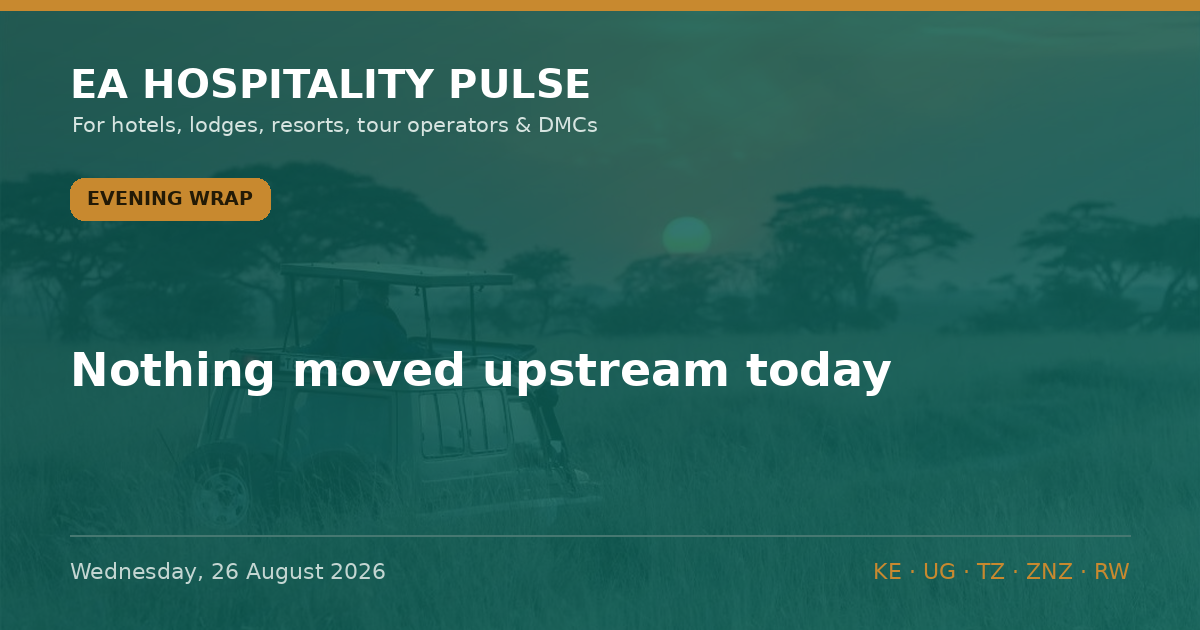
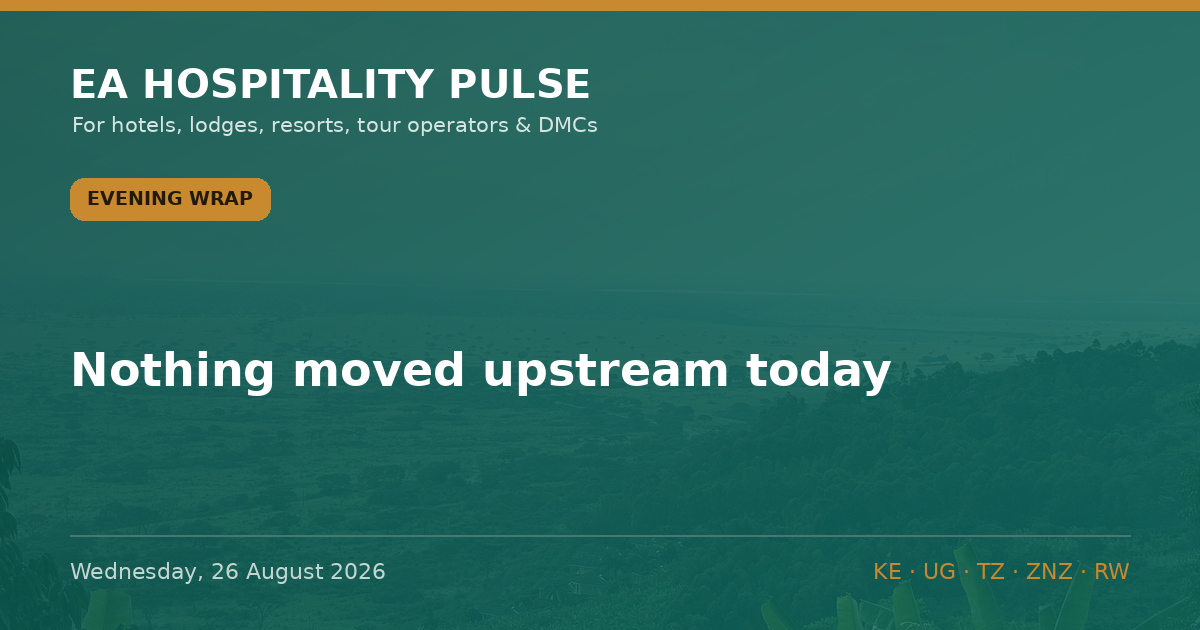
Auto-build: 2026-08-26 14:09 UTC

diff --git a/data.js b/data.js
@@ -126,15 +126,6 @@ window.EDITIONS = [
   "bodyHtml": "<p>☀ <strong>MORNING BRIEF — Tue 19 Aug 2026</strong><br><em>Quiet news slot — one expert read that matters more than any headline.</em></p>\n<p><strong>YOUR FASTEST-GROWING GUEST IS YOUR NEIGHBOUR — AND YOUR GOVERNMENT IS TAXING THEM AT THE BASE</strong></p>\n<p>Read the 2025 source-market tables and the story stops being about Europe. Uganda sent Kenya <strong>234,556 visitors in 2025 — 31% of all African arrivals, up 8.7%</strong>; Tanzania <strong>209,536, up 7.7%</strong> (KTB/TRI data via POATE 2026, reported by Citizen Digital &amp; New Vision). Kenya now targets <strong>300,000 Ugandan arrivals</strong>. In Rwanda it&#x27;s starker: the <strong>DRC is now the single largest source market — 185,420 visitors in H1 2026, 12.5% of all international arrivals</strong> (RDB). The regional guest is the base load now, not the overflow.</p>\n<p><strong>What most operators miss:</strong> the guest base changed but the playbook didn&#x27;t. The marginal booking now comes from a traveller who ignores Western Level-3 advisories, books short, drives or short-hauls in, and pays in a regional currency — yet we still run a long-haul-dollar operation: USD rack rates, GDS/OTA distribution, risk comms aimed at Europe. Worse, the same treasuries celebrating this demand are taxing its most price-sensitive flyer. Kenya&#x27;s JKIA passenger levy is now <strong>pledged to bondholders</strong> (Business Daily, 24 Jul) — hard to cut — with a 2% short-term-rental levy and a proposed travel-health-insurance charge stacking on top. Regional demand shrugs off advisories but is exquisitely sensitive to a $20 levy.</p>\n<p><span class=\"sowhat\">🎯 <strong>So what — by segment:</strong></span><br>🏙 <strong>City:</strong> regional corporate, VFR and events traffic is your steadiest base — build regional-agent and WhatsApp distribution, quote in regional terms, not just a USD rack. 🌿 <strong>Bush:</strong> regional guests are lower-ADR but fill shoulder/low season and hedge advisory-driven long-haul softness — watch the total trip cost, because a park-fee-plus-air-levy stack is what loses them. 🏖 <strong>Beach:</strong> the drive-and-short-haul market (Ugandans/Tanzanians to Diani &amp; Mombasa, regional flyers to Zanzibar) is now year-round base load — protect it from feeder-route fragility and levy creep.<br><span class=\"tagline\">🏷 Regional · Confirmed (KTB/TRI 2025, RDB H1 2026) / Inference on operator response.</span></p>\n<hr class=\"divider\">\n<p>✅ <strong>STILL TRUE</strong> — No EA advisory moved. Kenya <strong>US Level 2</strong> (core corridors, Diani, Watamu clear); Tanzania &amp; Zanzibar <strong>Level 3</strong> (since 31 Oct 2025); Uganda <strong>US Level 4</strong> on residual Ebola grounds despite its 28 Jul outbreak-over call (travel.state.gov, verified 12 Aug). The regional guest travels through all of it — don&#x27;t discount as though it had lifted.<br>💷 <strong>COST PULSE</strong> — Price regional in regional money: KES→UGX <strong>28.36</strong> · KES→TZS <strong>20.30</strong> · KES→RWF <strong>11.31</strong> (CBK weekly). Kenya diesel <strong>KSh 217.86/L</strong> (EPRA, 14 Aug) — refuse any supplier fuel surcharge this cycle.<br><span class=\"meta-line\">📅 <strong>WEEK AHEAD</strong> — <strong>19–21 Aug</strong> Hotel Expo Kenya, KICC · <strong>18–20 Aug</strong> AfPIF, Kigali Marriott · late Aug KNBS/UBOS/NISR CPI · <strong>26–28 Aug</strong> Africa Global PR Week, Nairobi · <strong>4 Sep</strong> Kwita Izina, Musanze.</span><br><span class=\"meta-line\">📡 <strong>RADAR</strong> — 470 in-window observations to 08:38 EAT; feed live. No EA advisory moved (only Mauritania/Netherlands/Ecuador flagged). Jambojet &amp; Airlink press pages moved behind Incapsula — a persistent blind spot, not news. Kenya Law feed heavy with court judgments, none hospitality.</span></p>\n<p>🔗 This edition on the web: <a href=\"https://eahospitalitypulse.com/editions/pulse-2026-08-19-morning.html\" rel=\"noopener\">eahospitalitypulse.com/editions/pulse-2026-08-19-mornin…</a></p>"
  },
  {
-  "id": "pulse-2026-08-18-special",
-  "date": "2026-08-18",
-  "dateDisplay": "Tuesday, 18 August 2026",
-  "edition": "Morning Brief",
-  "editionKey": "morning",
-  "summary": "1⃣ 🇰🇪 THE COAST IS OUTGROWING THE GATEWAY — AND THE NATIONAL NUMBER HIDES IT",
-  "bodyHtml": "<p>📊 <strong>EA HOSPITALITY PULSE — Special Edition</strong><br>🗓 Tuesday 18 August 2026 | 🇰🇪 KNBS data drop</p>\n<p><em>Kenya&#x27;s arrivals are up — but not where the headline says. Read the map before the margin.</em><br>━━━━━━━━━<br><strong>1⃣ 🇰🇪 THE COAST IS OUTGROWING THE GATEWAY — AND THE NATIONAL NUMBER HIDES IT</strong></p>\n<p>Official visitor arrivals now run through April. Jan–Apr 2026: <strong>828,830, up 9.5%</strong> on the same months of 2025 (757,245) — Kenya Leading Economic Indicators, June 2026, KNBS, released 14 Aug.</p>\n<p>The headline is real. The distribution is the story. Mombasa&#x27;s Moi International (MIA) took <strong>96,701 arrivals, up 19.7%</strong> year-on-year, while JKIA grew <strong>8.5%</strong> and land borders <strong>7.5%</strong>. The coast is recovering over twice as fast as the Nairobi gateway.</p>\n<p><strong>What everyone is missing:</strong> the +9.5% is not evenly yours. In April — the long-rains trough — national arrivals rose just 2.9% and <strong>JKIA fell 1.0%</strong> YoY. Strip the coast out and the city-gateway recovery is modest and seasonal. A Nairobi GM reading &quot;+9.5%&quot; as their own demand is reading the wrong line. Backing it: SGR passengers ran <strong>~12% ahead</strong> in Q1 — the Nairobi–Mombasa corridor is carrying this (KNBS).</p>\n<p><span class=\"tagline\">🏷 City/Beach · Kenya · Confirmed (KNBS arrivals &amp; SGR) / Inference (regional read)</span><br><span class=\"sowhat\">🎯 <strong>So what:</strong> <strong>Coast</strong> — demand is arriving; hold rate through the Sep–Oct build and stop discounting. <strong>Nairobi</strong> — treat H1 as flat-to-soft on your own gateway; win share through corporate, MICE and regional traffic, not a rising tide.</span></p>\n<p><strong>2⃣ 🇰🇪 THE CURRENCY IS QUIETLY REPRICING YOUR EUROPEAN GUEST</strong></p>\n<p>Over H1 2026 the shilling <strong>firmed</strong> against sterling (174.32→<strong>172.72</strong>) and the euro (151.37→<strong>149.22</strong>), flat against the dollar at <strong>~129.5</strong> (KNBS, June). Inflation sat at <strong>6.4%</strong>, the CBR held at <strong>8.75%</strong>.</p>\n<p>Read together: a European operator&#x27;s fixed FX budget now buys <strong>fewer shillings</strong> than in January — mild pressure on any KES-cost property selling into Europe, while dollar-priced lodges keep their spread intact.</p>\n<p><span class=\"tagline\">🏷 City/Bush/Beach · Kenya · Confirmed (KNBS forex/CPI) / Inference (pricing read)</span><br><span class=\"sowhat\">🎯 <strong>So what:</strong> If you cost in shillings and sell in euros or pounds, revisit 2027 contract rates now — the FX drift is against you. Price in USD and you&#x27;re insulated.</span></p>\n<p>━━━━━━━━━<br>🍲 <strong>SUPPLY-CHAIN SIDEBAR — where your southern-circuit kitchen shops</strong></p>\n<p>Informal cross-border trade <strong>fell 16.7%</strong> in 2025 (KSh 299.0m→249.1m), and <strong>Tanzania became the top source of informal imports at 47.2%</strong>, overwhelmingly <strong>food and live animals (78.5%)</strong> — KNBS Informal Cross-Border Trade Survey 2025, released 17 Aug. Main entry points: <strong>Namanga, Isebania, Malaba</strong> — the Amboseli, Mara and Uganda corridors.</p>\n<p><span class=\"sowhat\">🎯 <strong>So what:</strong> Southern-circuit lodges run partly on this informal Tanzanian fresh-food flow. A contracting, Tanzania-concentrated supply line is a produce-cost and continuity risk — worth a word with your F&amp;B suppliers before high season. 🏷 Bush · Confirmed (KNBS ICBT) / Inference.</span></p>\n<p>━━━━━━━━━<br>✅ <strong>STILL TRUE</strong> — Kenya remains US <strong>Level 2</strong>; core corridors (Nairobi, Diani, Watamu) sit in no Level 4 area (travel.state.gov, verified 12 Aug). Don&#x27;t discount on a story that hasn&#x27;t moved.</p>\n<p>⚡ <strong>COST PULSE</strong> — Nairobi diesel holds <strong>KSh 217.86/L</strong> to 14 Sep, ~KSh 14.28/L above landed-cost parity (EPRA / Business Daily, 14 Aug).</p>\n<p><span class=\"meta-line\">📅 <strong>WEEK AHEAD</strong> — <strong>19–21 Aug</strong> Hotel Expo Kenya, KICC · <strong>26–28 Aug</strong> Africa Global PR Week, Nairobi. Watch the <strong>May–June arrivals</strong> print to confirm the coast trend.</span></p>\n<p>🔗 This edition on the web: <a href=\"https://eahospitalitypulse.com/editions/pulse-2026-08-18-special.html\" rel=\"noopener\">eahospitalitypulse.com/editions/pulse-2026-08-18-specia…</a><br>— EA Hospitality Pulse | Daily intelligence for city, bush &amp; beach properties</p>"
- },
- {
   "id": "pulse-2026-08-18-morning",
   "date": "2026-08-18",
   "dateDisplay": "Tuesday, 18 August 2026",
@@ -142,6 +133,15 @@ window.EDITIONS = [
   "editionKey": "morning",
   "summary": "1⃣ 🌍 THE AIRLIFT YOU'RE CELEBRATING IS THE LEAST PROFITABLE IN THE WORLD",
   "bodyHtml": "<p>🌅 <strong>EA HOSPITALITY PULSE — Morning Brief</strong><br>🗓 Tuesday 18 August 2026 | 🌍 🇰🇪 🇺🇬 🇷🇼 🇹🇿</p>\n<p><em>Expert Brief: East Africa is adding air routes faster than its airlines can afford to fly them.</em><br>━━━━━━━━━<br><strong>1⃣ 🌍 THE AIRLIFT YOU&#x27;RE CELEBRATING IS THE LEAST PROFITABLE IN THE WORLD</strong></p>\n<p>Every route launch lands as good news in this business. Uganda Airlines opens Entebbe–Accra on 27 Oct and daily Entebbe–Kigali on 18 Nov (announced 5 Aug, The EastAfrican); Airlink starts Cape Town–Zanzibar on 3 Oct. Read the balance sheet underneath and the mood changes.</p>\n<p>IATA&#x27;s December outlook put African carriers at <strong>US$1.30 of profit per passenger</strong> for 2026 against a <strong>US$7.90</strong> global average — a <strong>1.3% margin, the thinnest of any region</strong> (IATA, 9 Dec 2025). By its June AGM it had cut the 2026 line again: profit per passenger down to <strong>40 US cents</strong> from US$2.10 in 2025, and the continent&#x27;s total net profit halved to <strong>~US$100m</strong> (IATA &quot;Energy in Crisis&quot; outlook, 8 Jun 2026). East Africa&#x27;s recovery is riding on the most fragile airlift economics on the planet.</p>\n<p><strong>What everyone is missing:</strong> a new-route press release reads as demand arriving. It is actually thin-margin capacity being <strong>lent</strong> — and thin-margin capacity is the first thing cut when a season underperforms. Turkish suspended 18 routes for summer 2026, Istanbul–Dar es Salaam among them, final flights in May/June (reported 2026). The route you don&#x27;t help fill in its first two seasons is the route that isn&#x27;t there in year three. Airlift is not infrastructure you inherit; it&#x27;s a trade relationship you keep alive.</p>\n<p><span class=\"tagline\">🏷 City/Bush/Beach · Regional · Confirmed (IATA figures &amp; schedules) / Inference (fragility read)</span><br><span class=\"sowhat\">🎯 <strong>So what — by segment:</strong> <strong>City</strong> (Nairobi/Kigali/Kampala): put corporate blocks and MICE contracts onto the new regional frequencies so they survive to a third season. <strong>Bush:</strong> the luxury pivot means fewer, higher-value guests who still need a long-haul seat — cultivate the carriers that actually serve your source markets. <strong>Beach:</strong> feeder routes are the most fragile of all — a trial like Cape Town–Zanzibar lives or dies on load factor. Fill it or lose it.</span></p>\n<p>━━━━━━━━━<br>✅ <strong>STILL TRUE</strong> — Tanzania &amp; Zanzibar remain US <strong>Level 3</strong> (unchanged since 31 Oct 2025); Kenya <strong>Level 2</strong>, core tourist corridors clear (travel.state.gov, verified 12 Aug). Nothing moved overnight. Don&#x27;t discount as though it had.</p>\n<p>⚡ <strong>COST PULSE</strong> — Nairobi diesel holds at <strong>KSh 217.86/L</strong> to 14 Sep; operators are carrying roughly <strong>KSh 14.28/L above landed-cost parity</strong> — refuse any supplier fuel surcharge this cycle (EPRA / Business Daily, 14 Aug).</p>\n<p>🎤 <strong>MICE WATCH</strong> — <strong>AfPIF</strong> (300–500 delegates) fills the Kigali Marriott cluster <strong>18–20 Aug</strong>; <strong>Hotel Expo Kenya</strong> at KICC, <strong>19–21 Aug</strong>. Hold corporate rate, don&#x27;t discount into the shoulder.</p>\n<p><span class=\"meta-line\">📅 <strong>WEEK AHEAD</strong> — <strong>18 Aug</strong> WHO IHR Committee on the Bundibugyo PHEIC · <strong>22 Aug</strong> Julius Nyerere hydropower inauguration, TZ · <strong>26–28 Aug</strong> Africa Global PR Week, Mövenpick Nairobi · <strong>28 Aug</strong> WTA Africa Gala, Zanzibar · <strong>late Aug</strong> KNBS/UBOS/NISR CPI prints.</span></p>\n<p><span class=\"meta-line\">📡 <strong>RADAR</strong> — 593 in-window observations to 08:17 EAT; feed live. Jambojet and Airlink press pages moved again behind Incapsula — a persistent blind spot, not a quiet night. Kenya Law feed heavy with court judgments, none hospitality. No advisory level moved.</span></p>\n<p><span class=\"meta-line\">💬 Which inbound route would you actually miss — and are you filling it, or just watching it?</span></p>\n<p>🔗 This edition on the web: <a href=\"https://eahospitalitypulse.com/editions/pulse-2026-08-18-morning.html\" rel=\"noopener\">eahospitalitypulse.com/editions/pulse-2026-08-18-mornin…</a><br>— EA Hospitality Pulse | Daily intelligence for city, bush &amp; beach properties</p>"
+ },
+ {
+  "id": "pulse-2026-08-18-special",
+  "date": "2026-08-18",
+  "dateDisplay": "Tuesday, 18 August 2026",
+  "edition": "Morning Brief",
+  "editionKey": "morning",
+  "summary": "1⃣ 🇰🇪 THE COAST IS OUTGROWING THE GATEWAY — AND THE NATIONAL NUMBER HIDES IT",
+  "bodyHtml": "<p>📊 <strong>EA HOSPITALITY PULSE — Special Edition</strong><br>🗓 Tuesday 18 August 2026 | 🇰🇪 KNBS data drop</p>\n<p><em>Kenya&#x27;s arrivals are up — but not where the headline says. Read the map before the margin.</em><br>━━━━━━━━━<br><strong>1⃣ 🇰🇪 THE COAST IS OUTGROWING THE GATEWAY — AND THE NATIONAL NUMBER HIDES IT</strong></p>\n<p>Official visitor arrivals now run through April. Jan–Apr 2026: <strong>828,830, up 9.5%</strong> on the same months of 2025 (757,245) — Kenya Leading Economic Indicators, June 2026, KNBS, released 14 Aug.</p>\n<p>The headline is real. The distribution is the story. Mombasa&#x27;s Moi International (MIA) took <strong>96,701 arrivals, up 19.7%</strong> year-on-year, while JKIA grew <strong>8.5%</strong> and land borders <strong>7.5%</strong>. The coast is recovering over twice as fast as the Nairobi gateway.</p>\n<p><strong>What everyone is missing:</strong> the +9.5% is not evenly yours. In April — the long-rains trough — national arrivals rose just 2.9% and <strong>JKIA fell 1.0%</strong> YoY. Strip the coast out and the city-gateway recovery is modest and seasonal. A Nairobi GM reading &quot;+9.5%&quot; as their own demand is reading the wrong line. Backing it: SGR passengers ran <strong>~12% ahead</strong> in Q1 — the Nairobi–Mombasa corridor is carrying this (KNBS).</p>\n<p><span class=\"tagline\">🏷 City/Beach · Kenya · Confirmed (KNBS arrivals &amp; SGR) / Inference (regional read)</span><br><span class=\"sowhat\">🎯 <strong>So what:</strong> <strong>Coast</strong> — demand is arriving; hold rate through the Sep–Oct build and stop discounting. <strong>Nairobi</strong> — treat H1 as flat-to-soft on your own gateway; win share through corporate, MICE and regional traffic, not a rising tide.</span></p>\n<p><strong>2⃣ 🇰🇪 THE CURRENCY IS QUIETLY REPRICING YOUR EUROPEAN GUEST</strong></p>\n<p>Over H1 2026 the shilling <strong>firmed</strong> against sterling (174.32→<strong>172.72</strong>) and the euro (151.37→<strong>149.22</strong>), flat against the dollar at <strong>~129.5</strong> (KNBS, June). Inflation sat at <strong>6.4%</strong>, the CBR held at <strong>8.75%</strong>.</p>\n<p>Read together: a European operator&#x27;s fixed FX budget now buys <strong>fewer shillings</strong> than in January — mild pressure on any KES-cost property selling into Europe, while dollar-priced lodges keep their spread intact.</p>\n<p><span class=\"tagline\">🏷 City/Bush/Beach · Kenya · Confirmed (KNBS forex/CPI) / Inference (pricing read)</span><br><span class=\"sowhat\">🎯 <strong>So what:</strong> If you cost in shillings and sell in euros or pounds, revisit 2027 contract rates now — the FX drift is against you. Price in USD and you&#x27;re insulated.</span></p>\n<p>━━━━━━━━━<br>🍲 <strong>SUPPLY-CHAIN SIDEBAR — where your southern-circuit kitchen shops</strong></p>\n<p>Informal cross-border trade <strong>fell 16.7%</strong> in 2025 (KSh 299.0m→249.1m), and <strong>Tanzania became the top source of informal imports at 47.2%</strong>, overwhelmingly <strong>food and live animals (78.5%)</strong> — KNBS Informal Cross-Border Trade Survey 2025, released 17 Aug. Main entry points: <strong>Namanga, Isebania, Malaba</strong> — the Amboseli, Mara and Uganda corridors.</p>\n<p><span class=\"sowhat\">🎯 <strong>So what:</strong> Southern-circuit lodges run partly on this informal Tanzanian fresh-food flow. A contracting, Tanzania-concentrated supply line is a produce-cost and continuity risk — worth a word with your F&amp;B suppliers before high season. 🏷 Bush · Confirmed (KNBS ICBT) / Inference.</span></p>\n<p>━━━━━━━━━<br>✅ <strong>STILL TRUE</strong> — Kenya remains US <strong>Level 2</strong>; core corridors (Nairobi, Diani, Watamu) sit in no Level 4 area (travel.state.gov, verified 12 Aug). Don&#x27;t discount on a story that hasn&#x27;t moved.</p>\n<p>⚡ <strong>COST PULSE</strong> — Nairobi diesel holds <strong>KSh 217.86/L</strong> to 14 Sep, ~KSh 14.28/L above landed-cost parity (EPRA / Business Daily, 14 Aug).</p>\n<p><span class=\"meta-line\">📅 <strong>WEEK AHEAD</strong> — <strong>19–21 Aug</strong> Hotel Expo Kenya, KICC · <strong>26–28 Aug</strong> Africa Global PR Week, Nairobi. Watch the <strong>May–June arrivals</strong> print to confirm the coast trend.</span></p>\n<p>🔗 This edition on the web: <a href=\"https://eahospitalitypulse.com/editions/pulse-2026-08-18-special.html\" rel=\"noopener\">eahospitalitypulse.com/editions/pulse-2026-08-18-specia…</a><br>— EA Hospitality Pulse | Daily intelligence for city, bush &amp; beach properties</p>"
  },
  {
   "id": "pulse-2026-08-17-evening",
@@ -2947,4 +2947,4 @@ window.INSIGHTS = [
   "editionKey": "evening"
  }
 ];
-window.BUILT_AT = "2026-08-26 17:06";
+window.BUILT_AT = "2026-08-26 14:08";

diff --git a/editions/pulse-2026-08-17-evening.html b/editions/pulse-2026-08-17-evening.html
@@ -170,7 +170,7 @@ footer.s a:hover{color:var(--teal-d);border-bottom-color:var(--gold)}
 <p>🔗 This edition on the web: <a href="https://eahospitalitypulse.com/editions/pulse-2026-08-17-evening.html" rel="noopener">eahospitalitypulse.com/editions/pulse-2026-08-17-evenin…</a><br>💼 Today&#x27;s Big Read on LinkedIn: <a href="https://www.linkedin.com/company/ea-hospitality-pulse/" rel="noopener">linkedin.com/company/ea-hospitality-pulse/</a><br>— EA Hospitality Pulse | Daily intelligence for city, bush &amp; beach properties</p>
     <div class="more"><b>More from Monday, 17 August 2026:</b> <a href="pulse-2026-08-17-midday.html">Midday Pulse</a></div>
     <aside class="refs" aria-label="Reference guides"><h2>Reference</h2><ul><li><a href="../guides/ota-commission-what-it-actually-costs.html">What OTA commission actually costs an East African hotel</a></li><li><a href="../guides/park-permit-fees-east-africa.html">Park and permit fees across East Africa: what to check before you quote</a></li><li><a href="../guides/sustainability-compliance-east-africa.html">Sustainability compliance in East Africa — plastics, carbon and certification, without the hype</a></li><li><a href="../guides/tech-stack-east-africa.html">The East African hotel tech stack — payment costs, PMS fit and where AI pricing actually works</a></li><li><a href="../guides/travel-advisories-what-actually-moves-bookings.html">Reading a travel advisory: what actually moves bookings</a></li></ul></aside>
-    <nav class="pnrow"><a class="pn prev" href="pulse-2026-08-17-midday.html" rel="prev">← Midday Pulse · Monday, 17 August 2026</a><a class="pn next" href="pulse-2026-08-18-morning.html" rel="next">Morning Brief · Tuesday, 18 August 2026 →</a></nav>
+    <nav class="pnrow"><a class="pn prev" href="pulse-2026-08-17-midday.html" rel="prev">← Midday Pulse · Monday, 17 August 2026</a><a class="pn next" href="pulse-2026-08-18-special.html" rel="next">Morning Brief · Tuesday, 18 August 2026 →</a></nav>
     <div class="sub">
       <b>Follow the Pulse</b> — three briefs a day across Kenya, Uganda, Tanzania, Zanzibar &amp; Rwanda.<br>
       <a href="https://t.me/eahospitalitypulse" target="_blank" rel="noopener">📣 Telegram (full editions)</a>

diff --git a/editions/pulse-2026-08-18-morning.html b/editions/pulse-2026-08-18-morning.html
@@ -172,7 +172,7 @@ footer.s a:hover{color:var(--teal-d);border-bottom-color:var(--gold)}
 <p>🔗 This edition on the web: <a href="https://eahospitalitypulse.com/editions/pulse-2026-08-18-morning.html" rel="noopener">eahospitalitypulse.com/editions/pulse-2026-08-18-mornin…</a><br>— EA Hospitality Pulse | Daily intelligence for city, bush &amp; beach properties</p>
     <div class="more"><b>More from Tuesday, 18 August 2026:</b> <a href="pulse-2026-08-18-special.html">Morning Brief</a></div>
     <aside class="refs" aria-label="Reference guides"><h2>Reference</h2><ul><li><a href="../guides/ota-commission-what-it-actually-costs.html">What OTA commission actually costs an East African hotel</a></li><li><a href="../guides/park-permit-fees-east-africa.html">Park and permit fees across East Africa: what to check before you quote</a></li><li><a href="../guides/sustainability-compliance-east-africa.html">Sustainability compliance in East Africa — plastics, carbon and certification, without the hype</a></li><li><a href="../guides/tech-stack-east-africa.html">The East African hotel tech stack — payment costs, PMS fit and where AI pricing actually works</a></li><li><a href="../guides/travel-advisories-what-actually-moves-bookings.html">Reading a travel advisory: what actually moves bookings</a></li></ul></aside>
-    <nav class="pnrow"><a class="pn prev" href="pulse-2026-08-17-evening.html" rel="prev">← Evening Wrap · Monday, 17 August 2026</a><a class="pn next" href="pulse-2026-08-18-special.html" rel="next">Morning Brief · Tuesday, 18 August 2026 →</a></nav>
+    <nav class="pnrow"><a class="pn prev" href="pulse-2026-08-18-special.html" rel="prev">← Morning Brief · Tuesday, 18 August 2026</a><a class="pn next" href="pulse-2026-08-19-morning.html" rel="next">Morning Brief · Wednesday, 19 August 2026 →</a></nav>
     <div class="sub">
       <b>Follow the Pulse</b> — three briefs a day across Kenya, Uganda, Tanzania, Zanzibar &amp; Rwanda.<br>
       <a href="https://t.me/eahospitalitypulse" target="_blank" rel="noopener">📣 Telegram (full editions)</a>

diff --git a/editions/pulse-2026-08-18-special.html b/editions/pulse-2026-08-18-special.html
@@ -176,7 +176,7 @@ footer.s a:hover{color:var(--teal-d);border-bottom-color:var(--gold)}
 <p>🔗 This edition on the web: <a href="https://eahospitalitypulse.com/editions/pulse-2026-08-18-special.html" rel="noopener">eahospitalitypulse.com/editions/pulse-2026-08-18-specia…</a><br>— EA Hospitality Pulse | Daily intelligence for city, bush &amp; beach properties</p>
     <div class="more"><b>More from Tuesday, 18 August 2026:</b> <a href="pulse-2026-08-18-morning.html">Morning Brief</a></div>
     <aside class="refs" aria-label="Reference guides"><h2>Reference</h2><ul><li><a href="../guides/ota-commission-what-it-actually-costs.html">What OTA commission actually costs an East African hotel</a></li><li><a href="../guides/park-permit-fees-east-africa.html">Park and permit fees across East Africa: what to check before you quote</a></li><li><a href="../guides/sustainability-compliance-east-africa.html">Sustainability compliance in East Africa — plastics, carbon and certification, without the hype</a></li><li><a href="../guides/tech-stack-east-africa.html">The East African hotel tech stack — payment costs, PMS fit and where AI pricing actually works</a></li><li><a href="../guides/travel-advisories-what-actually-moves-bookings.html">Reading a travel advisory: what actually moves bookings</a></li></ul></aside>
-    <nav class="pnrow"><a class="pn prev" href="pulse-2026-08-18-morning.html" rel="prev">← Morning Brief · Tuesday, 18 August 2026</a><a class="pn next" href="pulse-2026-08-19-morning.html" rel="next">Morning Brief · Wednesday, 19 August 2026 →</a></nav>
+    <nav class="pnrow"><a class="pn prev" href="pulse-2026-08-17-evening.html" rel="prev">← Evening Wrap · Monday, 17 August 2026</a><a class="pn next" href="pulse-2026-08-18-morning.html" rel="next">Morning Brief · Tuesday, 18 August 2026 →</a></nav>
     <div class="sub">
       <b>Follow the Pulse</b> — three briefs a day across Kenya, Uganda, Tanzania, Zanzibar &amp; Rwanda.<br>
       <a href="https://t.me/eahospitalitypulse" target="_blank" rel="noopener">📣 Telegram (full editions)</a>

diff --git a/editions/pulse-2026-08-19-morning.html b/editions/pulse-2026-08-19-morning.html
@@ -168,7 +168,7 @@ footer.s a:hover{color:var(--teal-d);border-bottom-color:var(--gold)}
 <p>🔗 This edition on the web: <a href="https://eahospitalitypulse.com/editions/pulse-2026-08-19-morning.html" rel="noopener">eahospitalitypulse.com/editions/pulse-2026-08-19-mornin…</a></p>
     <div class="more"><b>More from Wednesday, 19 August 2026:</b> <a href="pulse-2026-08-19-evening.html">Evening Wrap</a></div>
     <aside class="refs" aria-label="Reference guides"><h2>Reference</h2><ul><li><a href="../guides/ota-commission-what-it-actually-costs.html">What OTA commission actually costs an East African hotel</a></li><li><a href="../guides/park-permit-fees-east-africa.html">Park and permit fees across East Africa: what to check before you quote</a></li><li><a href="../guides/sustainability-compliance-east-africa.html">Sustainability compliance in East Africa — plastics, carbon and certification, without the hype</a></li><li><a href="../guides/tech-stack-east-africa.html">The East African hotel tech stack — payment costs, PMS fit and where AI pricing actually works</a></li><li><a href="../guides/travel-advisories-what-actually-moves-bookings.html">Reading a travel advisory: what actually moves bookings</a></li></ul></aside>
-    <nav class="pnrow"><a class="pn prev" href="pulse-2026-08-18-special.html" rel="prev">← Morning Brief · Tuesday, 18 August 2026</a><a class="pn next" href="pulse-2026-08-19-evening.html" rel="next">Evening Wrap · Wednesday, 19 August 2026 →</a></nav>
+    <nav class="pnrow"><a class="pn prev" href="pulse-2026-08-18-morning.html" rel="prev">← Morning Brief · Tuesday, 18 August 2026</a><a class="pn next" href="pulse-2026-08-19-evening.html" rel="next">Evening Wrap · Wednesday, 19 August 2026 →</a></nav>
     <div class="sub">
       <b>Follow the Pulse</b> — three briefs a day across Kenya, Uganda, Tanzania, Zanzibar &amp; Rwanda.<br>
       <a href="https://t.me/eahospitalitypulse" target="_blank" rel="noopener">📣 Telegram (full editions)</a>

diff --git a/editions/pulse-2026-08-26-evening.html b/editions/pulse-2026-08-26-evening.html
@@ -153,7 +153,7 @@ footer.s a:hover{color:var(--teal-d);border-bottom-color:var(--gold)}
 <div class="wrap">
   <article class="art">
     <img class="hero" src="../og/pulse-2026-08-26-evening-clean.png" alt="Evening Wrap — Wednesday, 26 August 2026" loading="eager">
-    
+    <p class="hcredit">Photo: NANTUMBWEJ · <a href="https://commons.wikimedia.org/wiki/File:Varied_Landscape_of_Rubirizi_Near_Queen_Elizabeth_National_Park,_Uganda.jpg" target="_blank" rel="noopener nofollow">Wikimedia Commons</a> · <a href="https://creativecommons.org/licenses/by-sa/4.0" target="_blank" rel="noopener nofollow">CC BY-SA 4.0</a></p>
     <nav class="crumbs" aria-label="Breadcrumb"><a href="../index.html">Home</a><span aria-hidden="true">/</span><a href="../index.html#archive">Editions</a><span aria-hidden="true">/</span><span aria-current="page">Evening Wrap, Wednesday, 26 August 2026</span></nav>
     <div class="kicker"><span class="badge">Evening Wrap</span><time datetime="2026-08-26">Wednesday, 26 August 2026</time></div>
     <h1>Nothing moved upstream today.</h1>

diff --git a/index.html b/index.html
@@ -456,7 +456,7 @@
   .imp-demand{color:var(--sage)} .imp-margin{color:var(--coral)} .imp-risk{color:#ff5b5b} .imp-watch{color:var(--amber)}
   @media(max-width:520px){.imp{position:static;display:inline-flex;margin:0 0 9px}.insight h3,.insight .imeta{padding-right:0}}
 </style>
-<!--BUILD_STAMP:20260826-1706--></head>
+<!--BUILD_STAMP:20260826-1408--></head>
 <body>
 <header class="site">
   <div class="wrap topbar">

diff --git a/ledger.js b/ledger.js
@@ -1,5 +1,5 @@
 window.LEDGER = {
- "updated": "2026-08-26 17:07",
+ "updated": "2026-08-26 14:09",
  "stats": {
   "total": 130,
   "open": 107,
